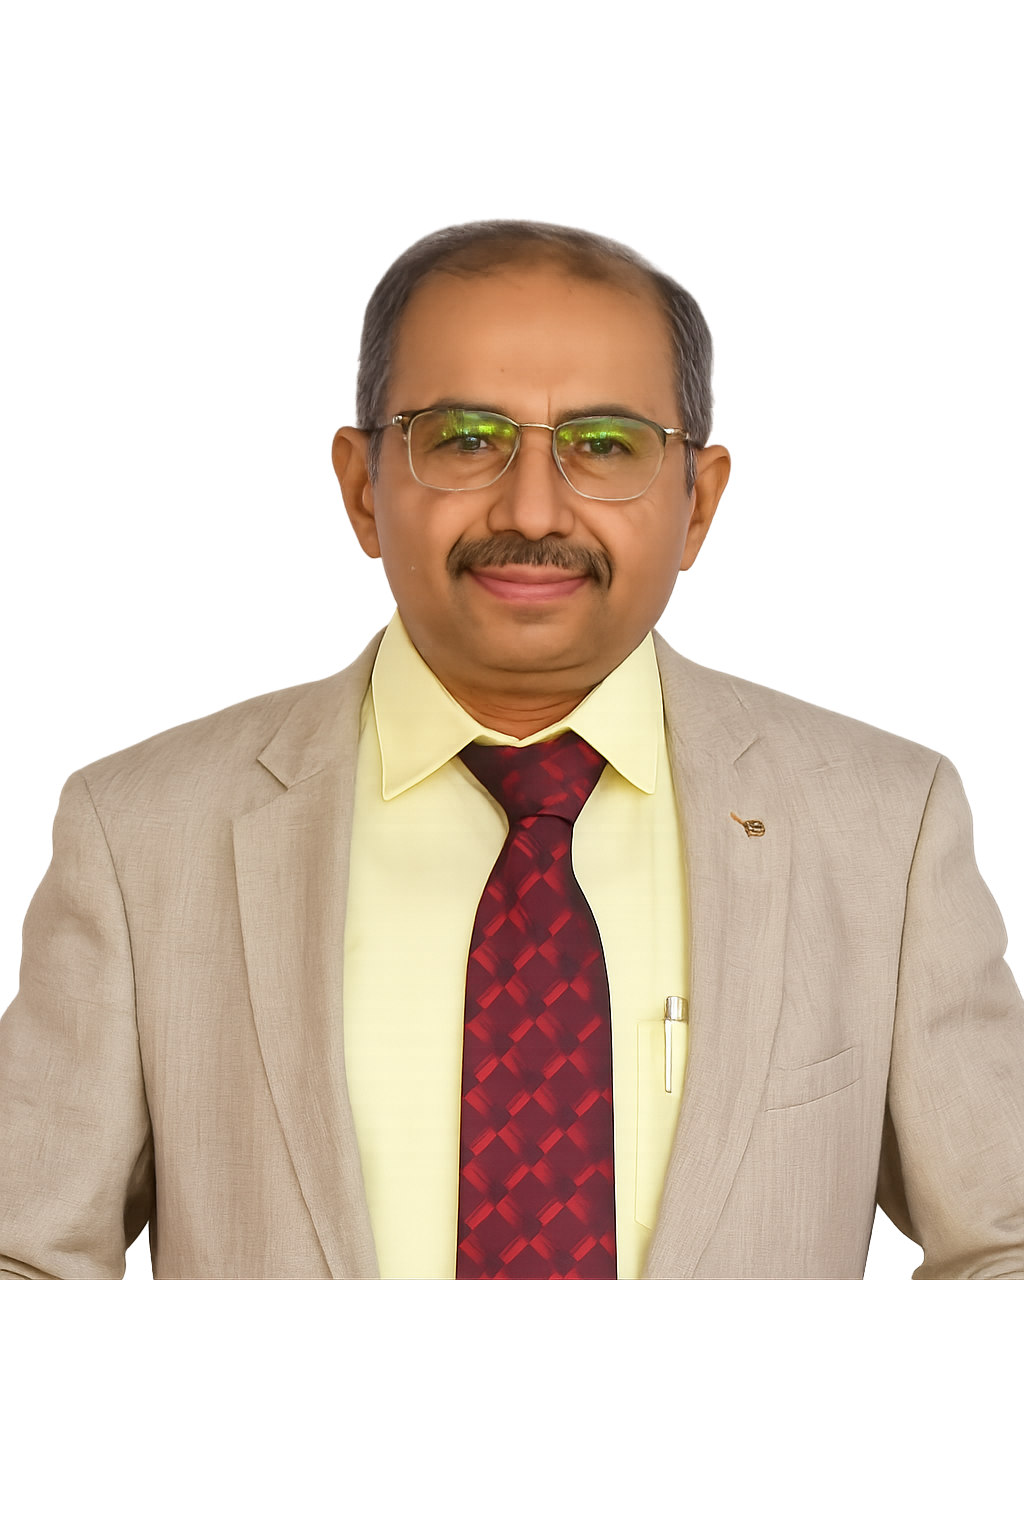
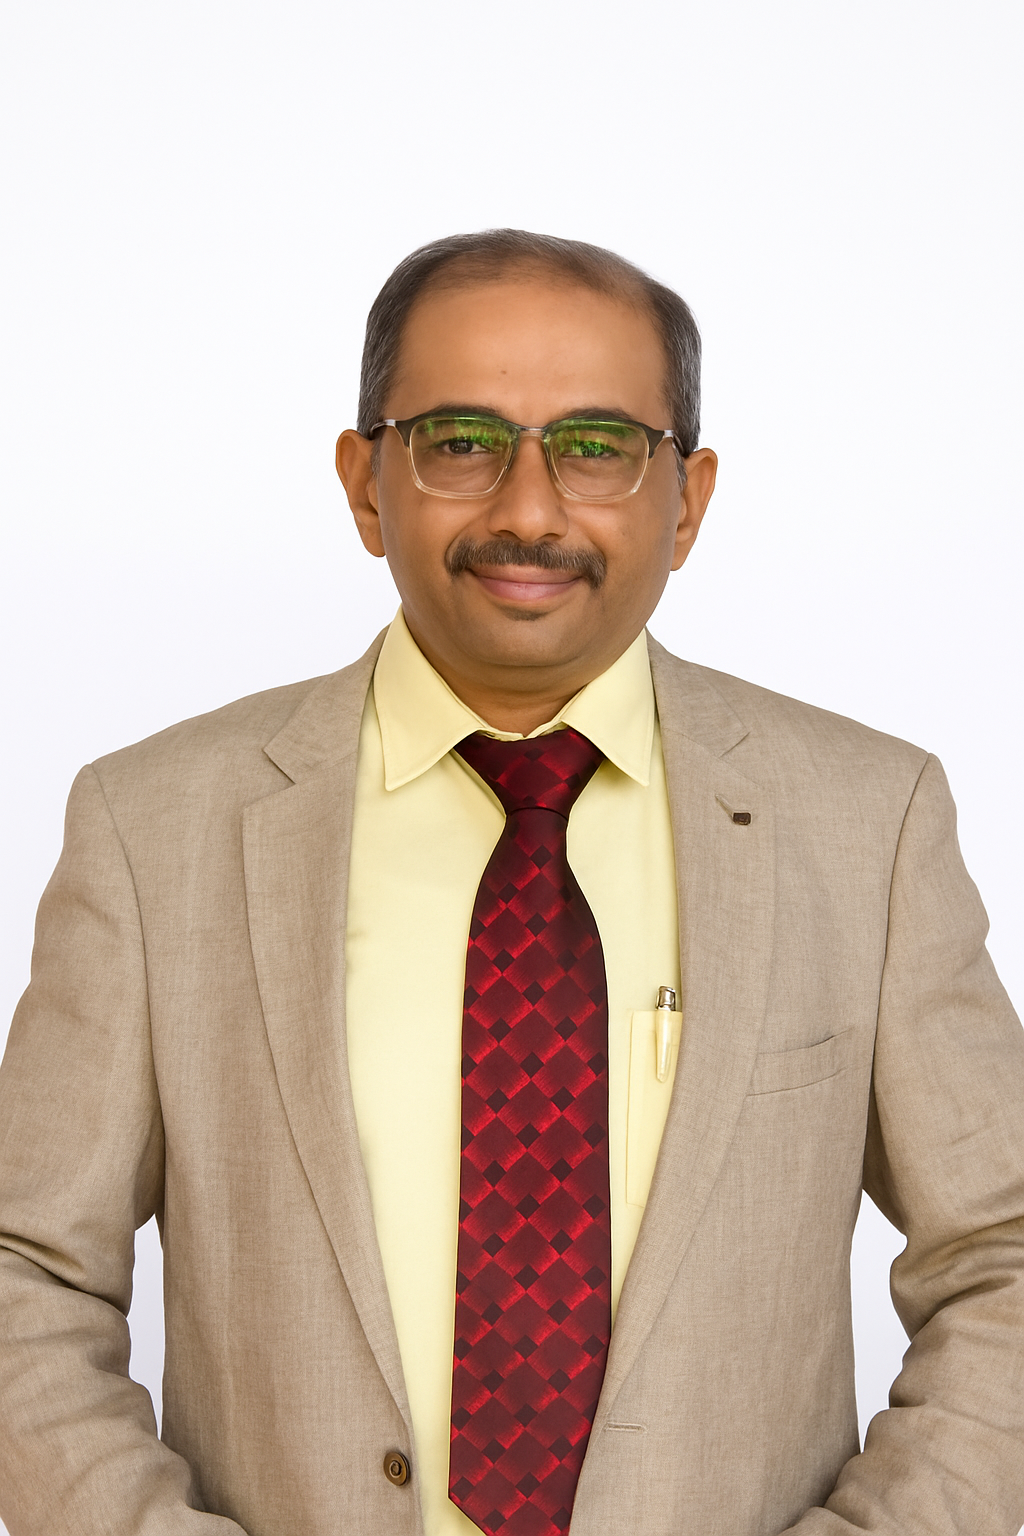
Mr Thej background adjusted to board page

diff --git a/index.html b/index.html
@@ -389,8 +389,10 @@
         
         <div class="leadership-grid">
             <div class="leader-card">
-                <div class="leader-image" style="background-color: #f8fafc; display: flex; align-items: center; justify-content: center;">
-                    <img src="images/Board/Thej.png" alt="Sri B. Thej Kumar - Chairman" style="width: 90%; height: auto; max-height: 90%; object-fit: contain;">
+                <div class="leader-image-container">
+                    <div class="leader-image">
+                        <img src="images/Board/Thej.png" alt="Sri B. Thej Kumar - Chairman">
+                    </div>
                 </div>
                 <h3>Sri B. Thej Kumar</h3>
                 <p>Chairman</p>
@@ -398,9 +400,10 @@
             </div>
             
             <div class="leader-card">
-                <div class="leader-image" style="background-color: #f8fafc; display: flex; align-items: center; justify-content: center;">
-                    <!-- For Vice-Chairman - using stock image -->
-                    <img src="https://images.unsplash.com/photo-1507003211169-0a1dd7228f2d?ixlib=rb-4.0.3&ixid=M3wxMjA3fDB8MHxwaG90by1wYWdlfHx8fGVufDB8fHx8fA%3D%3D&auto=format&fit=crop&w=500&q=80" alt="Sri T.A. Murali - Vice-Chairman" style="width: 100%; height: 100%; object-fit: cover;">
+                <div class="leader-image-container">
+                    <div class="leader-image">
+                        <img src="https://images.unsplash.com/photo-1507003211169-0a1dd7228f2d?ixlib=rb-4.0.3&ixid=M3wxMjA3fDB8MHxwaG90by1wYWdlfHx8fGVufDB8fHx8fA%3D%3D&auto=format&fit=crop&w=500&q=80" alt="Sri T.A. Murali - Vice-Chairman">
+                    </div>
                 </div>
                 <h3>Sri T.A. Murali</h3>
                 <p>Vice-Chairman</p>
@@ -408,8 +411,10 @@
             </div>
             
             <div class="leader-card">
-                <div class="leader-image" style="background-color: #f8fafc; display: flex; align-items: center; justify-content: center;">
-                    <img src="images/Board/Girish.jpeg" alt="Sri R. Girish - Secretary" style="width: 90%; height: auto; max-height: 90%; object-fit: contain;">
+                <div class="leader-image-container">
+                    <div class="leader-image">
+                        <img src="images/Board/Girish.jpeg" alt="Sri R. Girish - Secretary">
+                    </div>
                 </div>
                 <h3>Sri R. Girish</h3>
                 <p>Secretary</p>
@@ -417,9 +422,10 @@
             </div>
             
             <div class="leader-card">
-                <div class="leader-image" style="background-color: #f8fafc; display: flex; align-items: center; justify-content: center;">
-                    <!-- For Treasurer - using stock image -->
-                    <img src="https://images.unsplash.com/photo-1489424731084-a5d8b219a5bb?ixlib=rb-4.0.3&ixid=M3wxMjA3fDB8MHxwaG90by1wYWdlfHx8fGVufDB8fHx8fA%3D%3D&auto=format&fit=crop&w=500&q=80" alt="Sri H.S. Manjunath - Treasurer" style="width: 100%; height: 100%; object-fit: cover;">
+                <div class="leader-image-container">
+                    <div class="leader-image">
+                        <img src="https://images.unsplash.com/photo-1489424731084-a5d8b219a5bb?ixlib=rb-4.0.3&ixid=M3wxMjA3fDB8MHxwaG90by1wYWdlfHx8fGVufDB8fHx8fA%3D%3D&auto=format&fit=crop&w=500&q=80" alt="Sri H.S. Manjunath - Treasurer">
+                    </div>
                 </div>
                 <h3>Sri H.S. Manjunath</h3>
                 <p>Treasurer</p>

diff --git a/css/style.css b/css/style.css
@@ -1479,25 +1479,63 @@ body {
     box-shadow: 0 15px 30px rgba(0, 0, 0, 0.15);
 }
 
+/* Leadership Section - Updated to match Board Page Design */
+.leadership {
+    background: var(--bg-light);
+}
+
+.leadership-grid {
+    display: grid;
+    grid-template-columns: repeat(2, 1fr);
+    gap: 25px;
+}
+
+.leader-card {
+    text-align: center;
+    padding: 25px 15px;
+    background: var(--bg-white);
+    border-radius: 12px;
+    box-shadow: 0 5px 20px rgba(0,0,0,0.08);
+    transition: all 0.3s ease;
+    border: 1px solid var(--border-light);
+}
+
+.leader-card:hover {
+    transform: translateY(-5px);
+    box-shadow: 0 15px 30px rgba(0, 0, 0, 0.12);
+    border-color: var(--primary-blue);
+}
+
+/* Image container matching board page */
+.leader-image-container {
+    width: 100%;
+    padding: 20px 20px 15px;
+    background: white; /* Changed to white */
+    display: flex;
+    justify-content: center;
+    align-items: center;
+    margin-bottom: 10px;
+}
+
 .leader-image {
-    width: 100px;
-    height: 100px;
+    width: 140px; /* Slightly smaller than board page (180px) for homepage */
+    height: 140px;
     border-radius: 50%;
     overflow: hidden;
-    margin: 0 auto 30px;
-    border: 4px solid var(--primary-blue);
-    box-shadow: 0 5px 15px rgba(37, 99, 235, 0.3);
-    transition: all 0.3s ease;
+    border: 3px solid var(--primary-blue);
+    box-shadow: 0 5px 15px rgba(37, 99, 235, 0.2);
+    background: white;
+    position: relative;
 }
 
-.leader-card:hover .leader-image {
-    transform: scale(1.05);
-}
-
+/* Image styling matching board page */
 .leader-image img {
-    width: 100%;
-    height: 100%;
-    object-fit: cover !important;
+    width: 110%; /* Slightly larger to ensure full head coverage */
+    height: 110%; /* Slightly larger to ensure full head coverage */
+    object-fit: cover;
+    object-position: center 20%; /* Adjusted to focus on face/head */
+    position: relative;
+    top: -5%; /* Shift up to show more head */
 }
 
 .leader-card h3 {
@@ -1505,6 +1543,7 @@ body {
     margin-bottom: 8px;
     color: var(--text-dark);
     font-weight: 600;
+    line-height: 1.3;
 }
 
 .leader-card p {
@@ -1518,8 +1557,69 @@ body {
     color: var(--text-light);
     font-size: 0.85rem;
     font-weight: 500;
+    margin-top: 5px;
 }
 
+/* Desktop Styles */
+@media (min-width: 1024px) {
+    .leadership-grid {
+        grid-template-columns: repeat(4, 1fr);
+        gap: 30px;
+    }
+    
+    .leader-card {
+        padding: 30px 20px;
+    }
+    
+    .leader-image {
+        width: 150px; /* Slightly larger on desktop */
+        height: 150px;
+    }
+    
+    .leader-image-container {
+        padding: 25px 25px 20px;
+    }
+}
+
+/* Tablet Styles */
+@media (min-width: 768px) and (max-width: 1023px) {
+    .leadership-grid {
+        grid-template-columns: repeat(2, 1fr);
+        gap: 25px;
+    }
+    
+    .leader-image {
+        width: 130px;
+        height: 130px;
+    }
+}
+
+/* Mobile Optimization */
+@media (max-width: 767px) {
+    .leadership-grid {
+        grid-template-columns: 1fr;
+        gap: 20px;
+    }
+    
+    .leader-card {
+        padding: 20px 15px;
+    }
+    
+    .leader-image-container {
+        padding: 15px 15px 10px;
+    }
+    
+    .leader-image {
+        width: 120px;
+        height: 120px;
+    }
+    
+    .leader-image img {
+        width: 115%; /* Slightly larger on mobile */
+        height: 115%;
+        object-position: center 25%; /* Adjusted for mobile */
+    }
+}
 /* CTA Section */
 .cta {
     padding: 80px 0;
